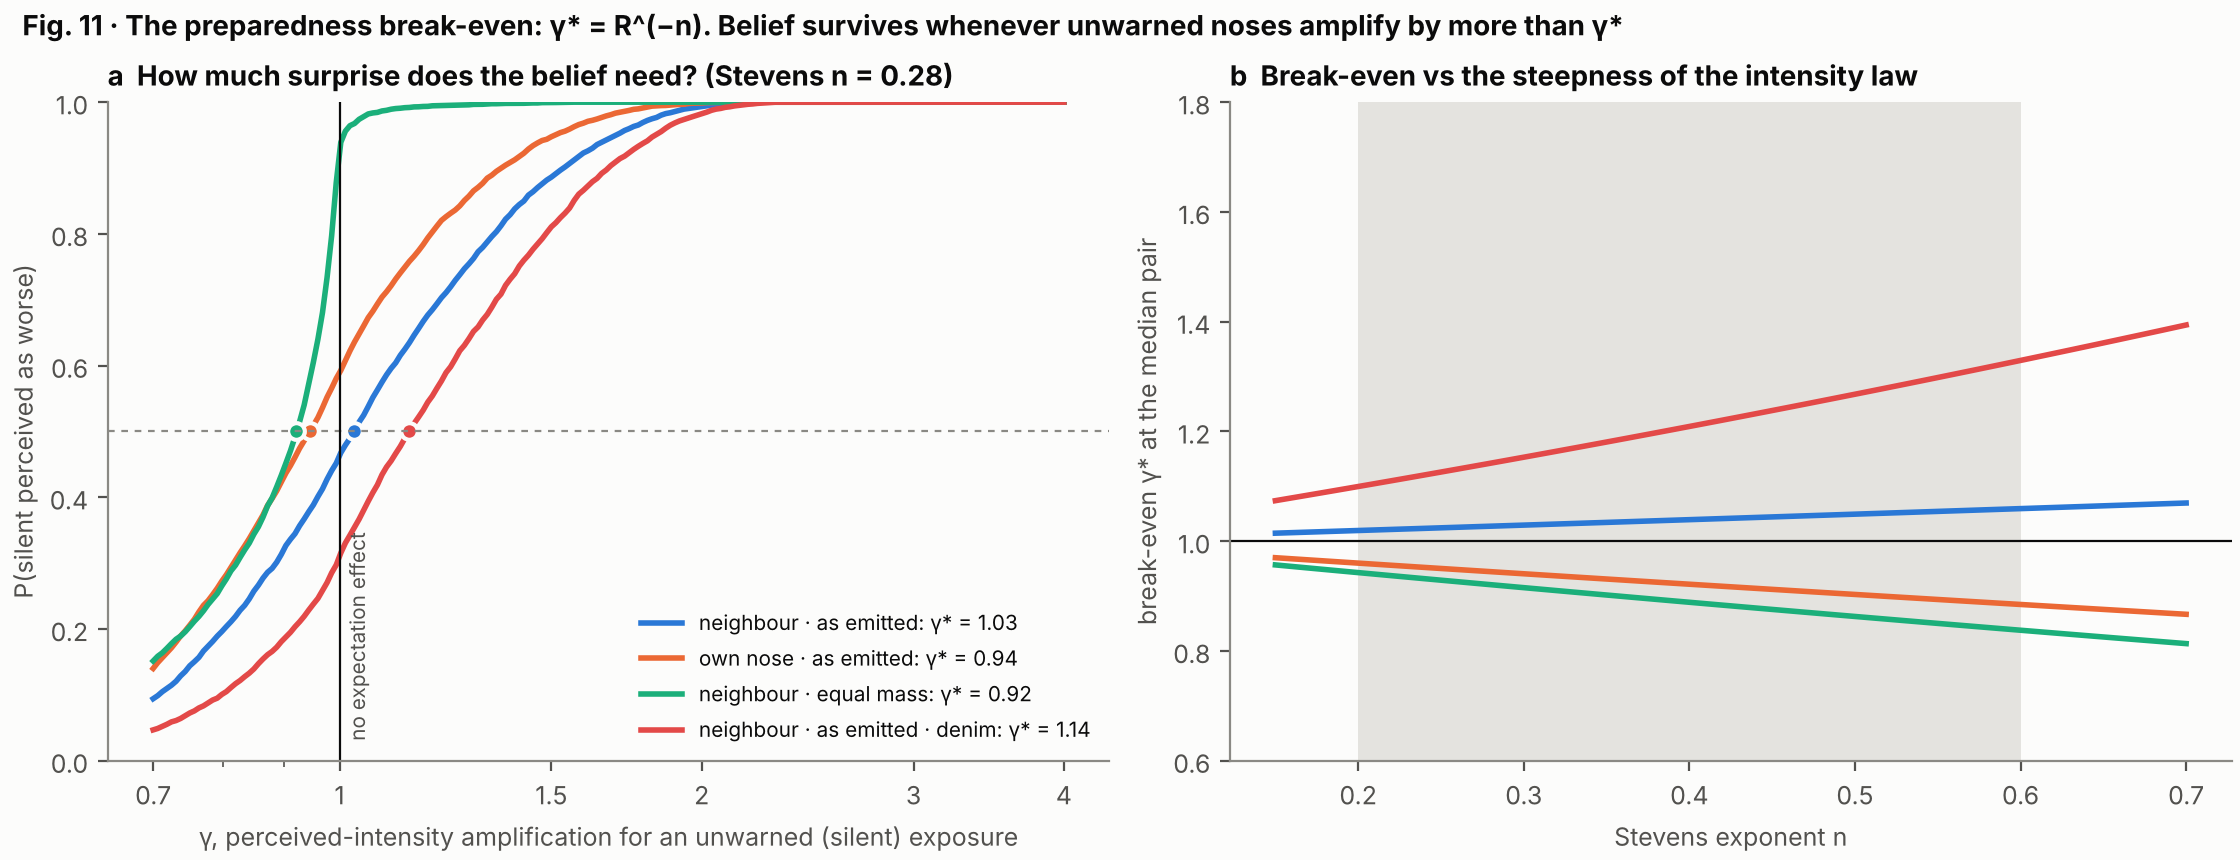
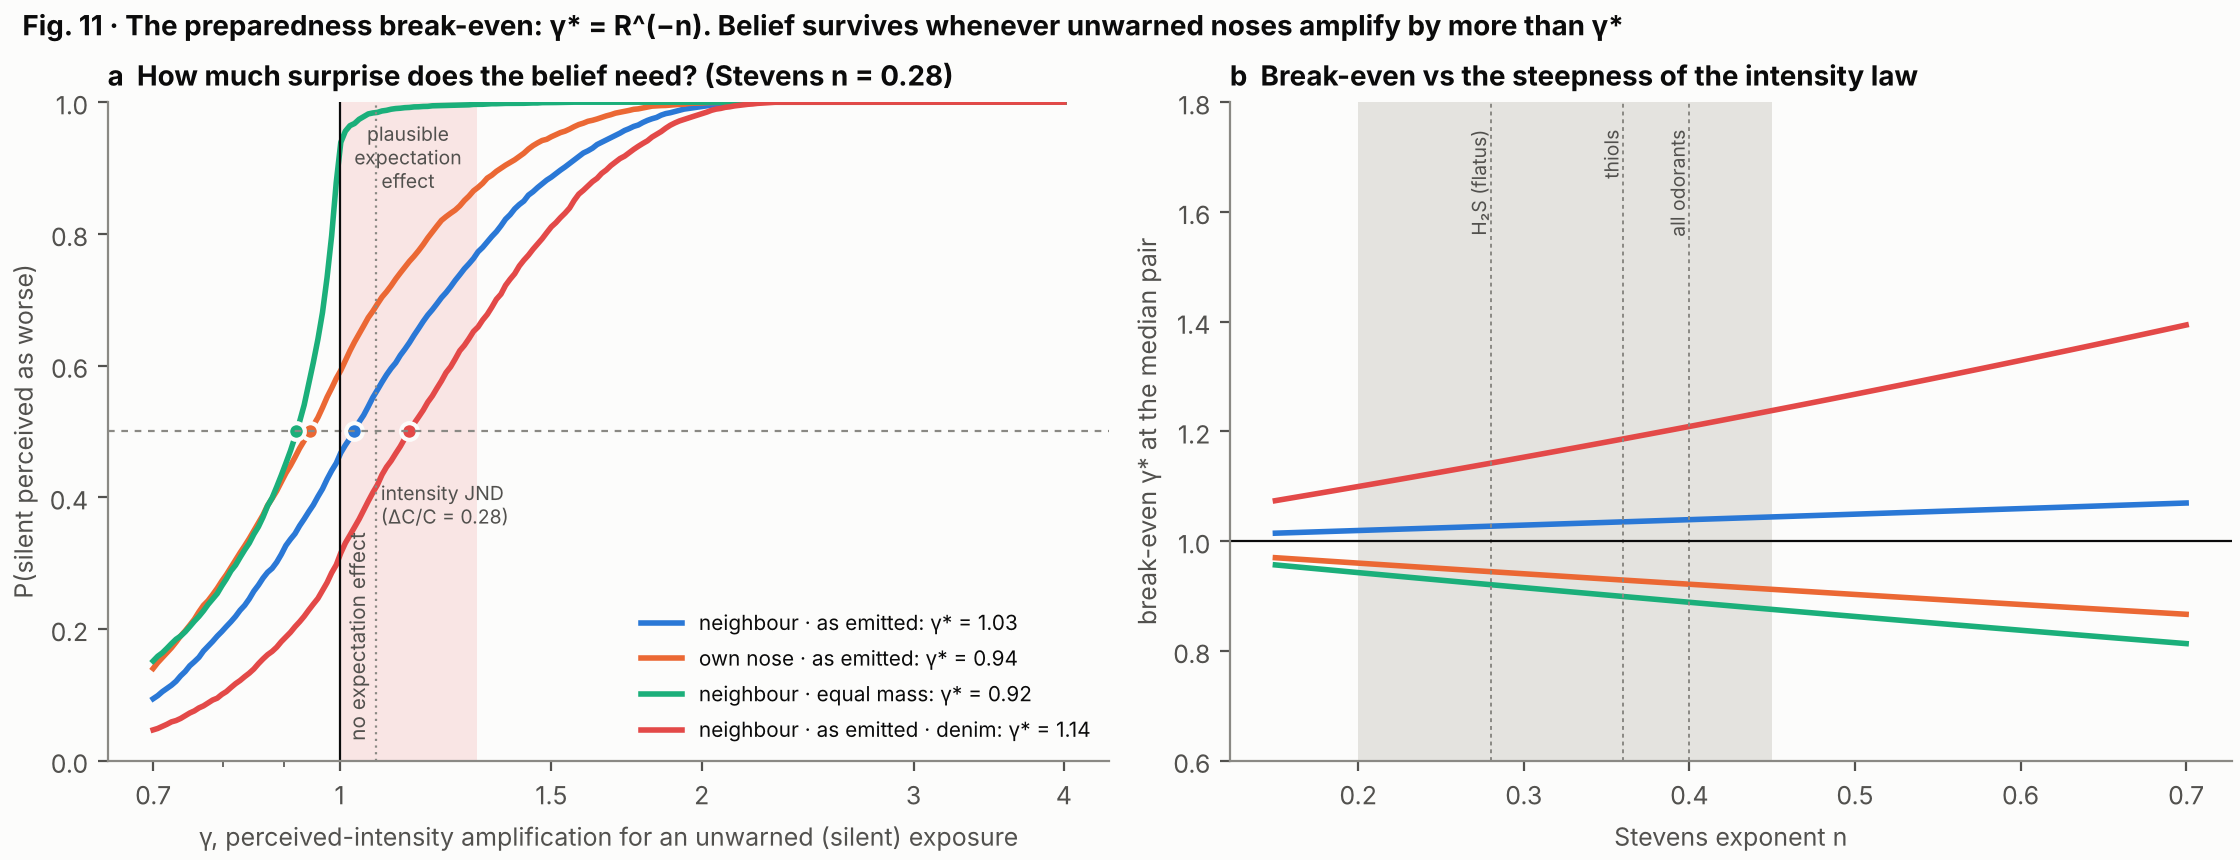
Finalise M6 perception layer with verified parameters; add report, adaptation figure and references
Claude-Session: https://claude.ai/code/session_0131NedNevRvPP7dQji5Ca7Y

diff --git a/perception/run_m6.py b/perception/run_m6.py
@@ -103,8 +103,10 @@ def fig7(mc):
         p_dodge.append(np.mean(rs < 0.1)); med_ratio.append(np.median(rs))
     ax.plot(holds, p_dodge, color=ORANGE, lw=2, marker="o", ms=4, label="P(dodge): worst breath < 10 % of peak")
     ax.plot(holds, med_ratio, color=INK, lw=1.6, ls=(0, (4, 2)), label="median worst breath / C_peak")
-    ax.axvspan(P["H_max"] * 0 + 30, 90, color="#e4e3df", lw=0)
-    ax.text(31, 0.93, "beyond typical voluntary\nbreath-hold (≈30–90 s)", fontsize=7.5, color=INK2, va="top")
+    ax.axvspan(24, 35, color="#e4e3df", lw=0)
+    ax.axvspan(35, 60, color="#f0efec", lw=0)
+    ax.text(24.5, 0.97, "typical max\nbreath-hold\n(32–35 s)", fontsize=7.2, color=INK2, va="top")
+    ax.text(36, 0.97, "requires a deep\nbreath first", fontsize=7.2, color=INK2, va="top")
     ax.set_xlim(0, 60); ax.set_ylim(0, 1.02)
     ax.set_xlabel("breath-hold duration H after hearing it (s)")
     ax.set_title("c  Warned: hold your breath (audible releases only)", loc="left")
@@ -139,8 +141,15 @@ def fig11(mc):
         ns = np.linspace(0.15, 0.7, 40)
         a2.plot(ns, [pm.gamma_star(np.median(R), x) for x in ns], color=col, lw=2, label=lab)
         out[lab] = {"median_R": float(np.median(R)), "gamma_star_median": gstar,
+                    "P_belief_gamma_lit": float(pm.p_belief(R, n, [P["gamma_lit"]])[0]),
+                    "intensity_ratio_median": float(np.median(R) ** n),
                     "P_belief_gamma1": float(pm.p_belief(R, n, [1.0])[0]),
                     "P_belief_gamma1.5": float(pm.p_belief(R, n, [1.5])[0])}
+    a1.axvspan(1.0, 1.3, color="#f2a3a2", alpha=0.25, lw=0)
+    a1.text(1.14, 0.97, "plausible\nexpectation\neffect", fontsize=7, color=INK2, ha="center", va="top")
+    jnd = (1 + P["weber_C"]) ** n
+    a1.axvline(jnd, color=MUTED, lw=0.8, ls=(0, (1, 2)))
+    a1.text(jnd * 1.01, 0.36, f"intensity JND\n(ΔC/C = {P['weber_C']})", fontsize=7, color=INK2)
     a1.axhline(0.5, color=MUTED, lw=0.8, ls=(0, (3, 3)))
     a1.axvline(1.0, color=INK, lw=0.8)
     a1.text(1.01, 0.03, "no expectation effect", fontsize=7.5, color=INK2, rotation=90, va="bottom")
@@ -149,7 +158,10 @@ def fig11(mc):
     a1.set_ylabel("P(silent perceived as worse)")
     a1.set_title(f"a  How much surprise does the belief need? (Stevens n = {n})", loc="left")
     a1.legend(frameon=False, fontsize=7.5, loc="lower right")
-    a2.axvspan(P.get("n_lo", 0.2), P.get("n_hi", 0.6), color="#e4e3df", lw=0)
+    a2.axvspan(0.20, 0.45, color="#e4e3df", lw=0)
+    for nv, lab in ((0.28, "H₂S (flatus)"), (0.36, "thiols"), (0.40, "all odorants")):
+        a2.axvline(nv, color=MUTED, lw=0.7, ls=(0, (2, 2)))
+        a2.text(nv, 1.75, lab, fontsize=7, color=INK2, rotation=90, va="top", ha="right")
     a2.axhline(1.0, color=INK, lw=0.8)
     a2.set_xlabel("Stevens exponent n"); a2.set_ylabel("break-even γ* at the median pair")
     a2.set_title("b  Break-even vs the steepness of the intensity law", loc="left")
@@ -161,9 +173,38 @@ def fig11(mc):
     return out
 
 
+def fig_adaptation():
+    """Supplementary: a lift car. Occupants adapt; a newcomer arrives with a fresh nose."""
+    V_cab, ach = 4.0, 12.0  # m^3; air changes per hour (ASSUMPTIONS for a lift car)
+    oav0 = 14.28 / V_cab  # one 100 mL passage well mixed (Gate 0: 14.3 m^3 to threshold)
+    n, tau, a_inf = P["n_stevens"], P["tau_adapt"], P["a_inf"]
+    t = np.linspace(0, 600, 1201)
+    oav = oav0 * np.exp(-ach / 3600 * t)
+    fig, ax = plt.subplots(figsize=(7.2, 4.0), constrained_layout=True)
+    base = pm.stevens(np.maximum(oav, 1.0), n) - 1.0  # 0 at threshold
+    ax.plot(t, np.where(oav > 1, base * pm.adaptation(t, tau, a_inf), 0), color=BLUE, lw=2,
+            label="occupant present at release")
+    for te, col in ((60, ORANGE), (180, AQUA)):
+        m = t >= te
+        ax.plot(t[m], np.where(oav[m] > 1, base[m] * pm.adaptation(t[m] - te, tau, a_inf), 0), color=col, lw=2,
+                label=f"newcomer entering at {te} s")
+    ax.plot(t, np.where(oav > 1, base, 0), color=MUTED, lw=1, ls=(0, (3, 3)), label="unadapted nose (reference)")
+    ax.set_xlabel("time after the release (s)")
+    ax.set_ylabel("perceived intensity above threshold (Stevens units)")
+    ax.set_title(f"Supplementary · The newcomer effect in a {V_cab:.0f} m³ lift car ({ach:.0f} air changes/h)",
+                 loc="left", fontsize=10, fontweight="bold")
+    ax.legend(frameon=False, fontsize=8)
+    ax.spines[["top", "right"]].set_visible(False)
+    fig.savefig(ROOT / "figures/figS_adaptation.png", dpi=200)
+    plt.close(fig)
+    i60 = np.argmin(abs(t - 60))
+    return {"oav0_well_mixed": oav0, "t_below_threshold_s": float(t[np.argmax(oav < 1)]) if np.any(oav < 1) else None,
+            "occupant_vs_newcomer_at_60s": float(pm.adaptation(60, tau, a_inf))}
+
+
 def main():
     mc = g0.monte_carlo(n=6000)
-    res = {"fig7": fig7(mc), "fig11": fig11(mc), "n_mc": int(mc["V_s"].size)}
+    res = {"fig7": fig7(mc), "fig11": fig11(mc), "adaptation": fig_adaptation(), "n_mc": int(mc["V_s"].size)}
     (ROOT / "perception/results.json").write_text(json.dumps(res, indent=2))
     print(json.dumps(res, indent=1))
 

diff --git a/perception/m6_report.md b/perception/m6_report.md
@@ -1,0 +1,68 @@
+# M6 report — perception layer (Figs 7, 11, S-adaptation)
+
+*2026-10-15 · code: `perception/model.py`, `perception/run_m6.py` · tests: `perception/test_perception.py` (6) · numbers: `perception/results.json` · Monte Carlo pairs from Gate 0 with M2 acoustic onset (n = 6 000)*
+
+## Model
+
+- **Breath sampling.** The nose samples only while inhaling. Inspiratory flow is sinusoidal, with f = 12 /min,
+  Ti/Ttot = 0.42 (Wysocki 2006) and V_T = 0.63 L. Each inhalation delivers its flow-weighted mean concentration;
+  the perceived peak is the **worst breath**.
+- **Warned breath-hold.** A listener who hears the release holds their breath after a reaction latency of 0.5 s,
+  for H seconds. The first breath after the hold is 1.5× deeper (assumption).
+- **Intensity.** Perceived intensity follows a Stevens law, I ∝ OAV^n with n = 0.28 (Collins et al. 2001; flatus H₂S;
+  sensitivity range 0.20–0.45). The log scale (k_w ≈ 0.95 per decade, Japan MoE) is retained for reporting.
+- **Adaptation.** A(t) = a∞ + (1 − a∞)e^(−t/τ), with a∞ = 0.35 (25–40 % for H₂S; Berglund 1978, Ekman 1967) and
+  τ = 80 s (assumption: asymptote reached by ~4 min).
+- **Preparedness.** The perceived ratio of silent to audible is γ·R^n, and the belief holds when it exceeds 1.
+  - Break-even: **γ\* = R^(−n)**.
+  - "Plausible expectation effect": ×1.0–1.3. This range is an assumption. The direction is verified (negative names
+    raise intensity, Djordjevic 2008; hazard framing causes sensitization instead of adaptation, Dalton 1996–1999),
+    but no study measures the intensity of an *unexpected* versus an expected odour.
+
+## Results
+
+**Fig. 7 — the breath-hold strategy** (neighbour, audible releases):
+
+- An audible puff reaches the neighbour after a median of **16 s** and passes in σ_t ≈ 3.8 s, with a 10–90 % range of
+  1.4–12 s.
+- **Unwarned:** the breathing phase barely helps. For a median passage the worst breath still captures 81–99 % of the
+  peak (mean 93 %). Only very short passages (σ_t ≈ 1.4 s) are sometimes dodged by luck: in a third of phases the worst
+  breath is below half the peak.
+- **Warned:**
+  - A 50 % chance of dodging the puff entirely (worst breath < 10 % of peak) needs **H ≈ 23 s** of breath-hold.
+  - Holding for 33 s, the typical maximum at end-expiration (Marks 1997; Roujol 2014), gives 68 %.
+  - Holding for 45 s, which needs a deep breath first, gives 79 %.
+- The ear therefore buys a real, physical escape option. It works only if the warned person holds their breath almost
+  to their limit, because the puff takes about 16 s to arrive.
+
+**Fig. 11 — the preparedness break-even** (Stevens n = 0.28):
+
+| scenario | median R | perceived intensity ratio R^n | γ\* | P(belief) at γ = 1 | at γ = 1.15 | at γ = 1.5 |
+|---|---|---|---|---|---|---|
+| neighbour, as emitted | 0.91 | 0.973 | **1.03** | 0.47 | 0.64 | 0.89 |
+| own nose, as emitted | 1.23 | 1.059 | 0.94 | 0.59 | 0.76 | 0.95 |
+| neighbour, equal mass | 1.34 | 1.086 | 0.92 | 0.93 | 0.99 | 1.00 |
+| neighbour, as emitted, denim | 0.62 | 0.876 | 1.14 | 0.31 | 0.51 | 0.81 |
+
+**Key sentence for the manuscript.** At the neighbour's nose, the median physical difference between a silent and an
+audible passage is a 2.7 % difference in perceived intensity. That is **below the olfactory just-noticeable difference
+(≈ 7 % in intensity for ΔC/C = 0.28)**. An expectation amplification of only **3 %** for an unwarned exposure (γ\*
+= 1.03) is enough for the belief to survive. With a modest 15 % amplification, two thirds of pairs "confirm" it.
+*The nose cannot tell the difference; the ears decide.*
+
+**Supplementary — the newcomer effect** (4 m³ lift car, 12 air changes/h, one 100 mL passage, well mixed):
+
+- The initial summed OAV is 3.6, and the odour stays above threshold for 6.4 min.
+- By 60 s an occupant who was present at the release perceives only 66 % of what an unadapted nose would.
+- A newcomer entering at that moment therefore perceives ≈ 1.5× more than the occupants, which gives the lift
+  whodunit (Scenario C) a false-accusation bias towards the last person in.
+
+## Limitations
+
+- γ is not measured. Only its direction and a break-even analysis are offered (plan §16).
+- Sniff suppression for malodours (sniff-magnitude ratio 0.64, Frank 2006) is not yet applied. It acts on both
+  silent and audible releases after detection, but a warned nose can suppress in anticipation (Frank 2007). This
+  would strengthen the warned-avoidance channel.
+- The lift-car cabin volume and ventilation rate are assumptions, and the cabin is treated as well mixed.
+- The Stevens exponent for H₂S comes from a single study (dog flatus, one judge). n = 0.20–0.45 is carried as the
+  sensitivity range (Fig. 11b): γ\* at the neighbour stays between 1.02 and 1.04.

diff --git a/NOTES.md b/NOTES.md
@@ -100,3 +100,18 @@
   - the Co limit binds only in near-wall layer cells (mean Co about 0.02), giving Δt ≈ 0.03 s;
   - 60 s of physical time from the steady state, averaged over 30–60 s;
   - about 1 h per case on 4 cores.
+
+### M6 — perception (done, see `perception/m6_report.md`)
+- **Neighbour, as emitted:** the median physical difference is R = 0.91. In perceived intensity that is
+  R^0.28 = 0.973, a 2.7 % difference and **below the olfactory JND (≈ 7 %)**. The break-even expectation factor is
+  γ\* = 1.03, so a 3 % amplification for unwarned exposures sustains the belief. At γ = 1.15, P(belief) = 0.64; at the
+  own nose it is 0.76.
+- **Breath-hold:**
+  - An audible puff reaches the neighbour after a median of 16 s. Unwarned, the worst breath catches ≈ 93 % of the
+    peak.
+  - Warned, a 50 % dodge needs a 23 s hold; the typical 33 s maximum gives 68 %.
+  - The ear buys a physical escape option only if the warned person holds their breath almost to their limit.
+- **Newcomer effect:** in a 4 m³ lift car, an occupant is adapted to 0.66 of a fresh nose at 60 s, so a newcomer
+  perceives ≈ 1.5× more. This carries into Scenario C.
+- Still assumptions: γ itself (direction verified, size not found), τ_adapt, the post-hold breath, and the lift-car
+  ventilation.
